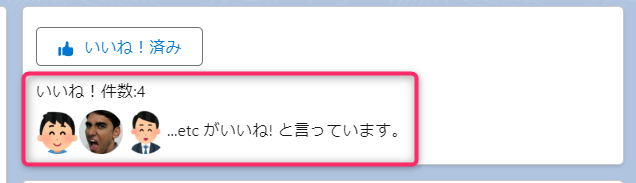
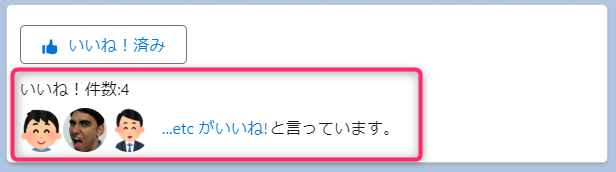
いいね！を押したユーザーの一覧画面（モーダル）作成

Changed region(s): [[0.0, 0.0, 0.987, 1.0]]

diff --git a/force-app/main/default/lwc/likeButton/likeButton.js b/force-app/main/default/lwc/likeButton/likeButton.js
@@ -1,9 +1,11 @@
 import { LightningElement, api, wire } from 'lwc';
+import LikeButtonWhoClickedModal from "c/likeButtonWhoClickedModal";
 import { ShowToastEvent } from 'lightning/platformShowToastEvent';
 import userId from "@salesforce/user/Id";
 import init from '@salesforce/apex/LikeButtonController.init';
 import onClickLike from '@salesforce/apex/LikeButtonController.onClickLike';
 import onClickCancelLike from '@salesforce/apex/LikeButtonController.onClickCancelLike';
+import openlikeButtonWhoClickedModal from '@salesforce/apex/LikeButtonController.openlikeButtonWhoClickedModal';
 
 export default class LikeButton extends LightningElement {
 
@@ -89,6 +91,27 @@ export default class LikeButton extends LightningElement {
 				})
 			);
 			this.spinner = false;
+		});
+	}
+
+	async openlikeButtonWhoClickedModalButton() {
+		await openlikeButtonWhoClickedModal({recordId: this.recordId})
+		.then(result => {
+			LikeButtonWhoClickedModal.open({
+				size: "small",
+				label: "いいね！と言っているユーザー",
+				record: result.displayLikeResult
+			});
+		})
+		.catch(error => {
+			this.dispatchEvent(
+				new ShowToastEvent({
+					title: 'エラーが発生しました。',
+					message: error.body.message,
+					variant: 'error',
+					mode: 'pester'
+				})
+			);
 		});
 	}
 }

diff --git a/force-app/main/default/lwc/likeButtonWhoClickedModal/likeButtonWhoClickedModal.html b/force-app/main/default/lwc/likeButtonWhoClickedModal/likeButtonWhoClickedModal.html
@@ -1,0 +1,13 @@
+<template>
+	<lightning-modal-header label={label}></lightning-modal-header>
+	<lightning-modal-body>
+		<template for:each={record} for:item="li">
+			<ul key={li.key} style="margin: 10px 0;">
+				<li key={li.key} style="border-bottom: 1px solid #dddbda; padding-left: 15px;">
+					<img src={li.User_Id__r.SmallPhotoUrl} title={li.User_Id__r.Name} key={li.key} style="width:35px;border-radius: 17.5px;" />
+					{li.User_Id__r.Name}
+				</li>
+			</ul>
+		</template>
+	</lightning-modal-body>
+</template>

diff --git a/force-app/main/default/lwc/likeButton/likeButton.html b/force-app/main/default/lwc/likeButton/likeButton.html
@@ -19,7 +19,8 @@
 					<img src={li.User_Id__r.SmallPhotoUrl} title={li.User_Id__r.Name} key={li.key} style="width:35px;border-radius: 17.5px;" />
 				</template>
 				<template lwc:if={overLimit}>
-					...etc がいいね! と言っています。
+					<lightning-button variant="base" label="...etc がいいね!" onclick={openlikeButtonWhoClickedModalButton} class="slds-m-left_x-small"></lightning-button>
+					と言っています。
 				</template>
 			</div>
 		</div>

diff --git a/force-app/main/default/lwc/likeButtonWhoClickedModal/likeButtonWhoClickedModal.js b/force-app/main/default/lwc/likeButtonWhoClickedModal/likeButtonWhoClickedModal.js
@@ -1,0 +1,8 @@
+import { api } from 'lwc';
+import LightningModal from 'lightning/modal';
+
+export default class LikeButtonWhoClickedModal extends LightningModal {
+
+	@api record;
+
+}

diff --git a/README.md b/README.md
@@ -12,6 +12,10 @@
 | --- | --- |  
 | ![複数いいね！](/docs/multiple_likes.png) | ![アイコンの表示制限](/docs/icon_display_restrictions.png) |  
 
+| いいね！を押したユーザーの一覧画面へのリンク（画像はプログラムにて3件に制限） | いいね！を押したユーザーの一覧画面 |  
+| --- | --- |  
+| ![複数いいね！](/docs/openlikeButtonWhoClicked.png) | ![アイコンの表示制限](/docs/openlikeButtonWhoClickedModal.png) |  
+
 # 準備と前提条件  
 ## カスタムオブジェクト作成
 | 表示ラベル | API 参照名 |  
@@ -86,17 +90,22 @@
 # ディレクトリ構成
 ```
 force-app
-    └─main
-        └─default
-            ├─classes
-            │      LikeButtonController.cls
-            │      LikeButtonController.cls-meta.xml
-            │      LikeButtonControllerTest.cls
-            │      LikeButtonControllerTest.cls-meta.xml
+└─main
+    └─default
+        ├─classes
+        │      LikeButtonController.cls
+        │      LikeButtonController.cls-meta.xml
+        │      LikeButtonControllerTest.cls
+        │      LikeButtonControllerTest.cls-meta.xml
+        │
+        └─lwc
+            ├─likeButton
+            │      likeButton.html
+            │      likeButton.js
+            │      likeButton.js-meta.xml
             │
-            └─lwc
-                └─likeButton
-                        likeButton.html
-                        likeButton.js
-                        likeButton.js-meta.xml
+            └─likeButtonWhoClickedModal
+                    likeButtonWhoClickedModal.html
+                    likeButtonWhoClickedModal.js
+                    likeButtonWhoClickedModal.js-meta.xml
 ```
